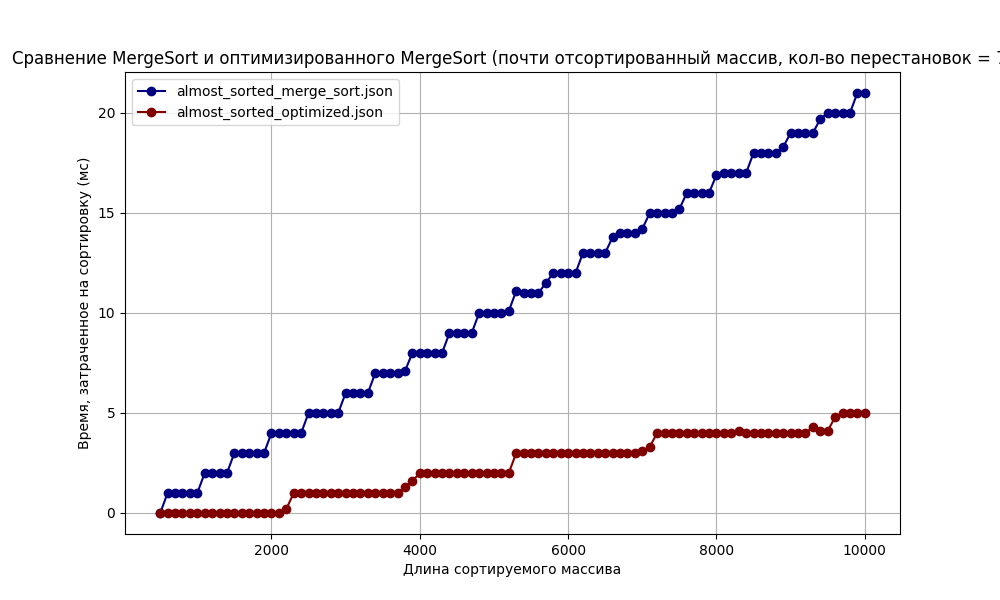
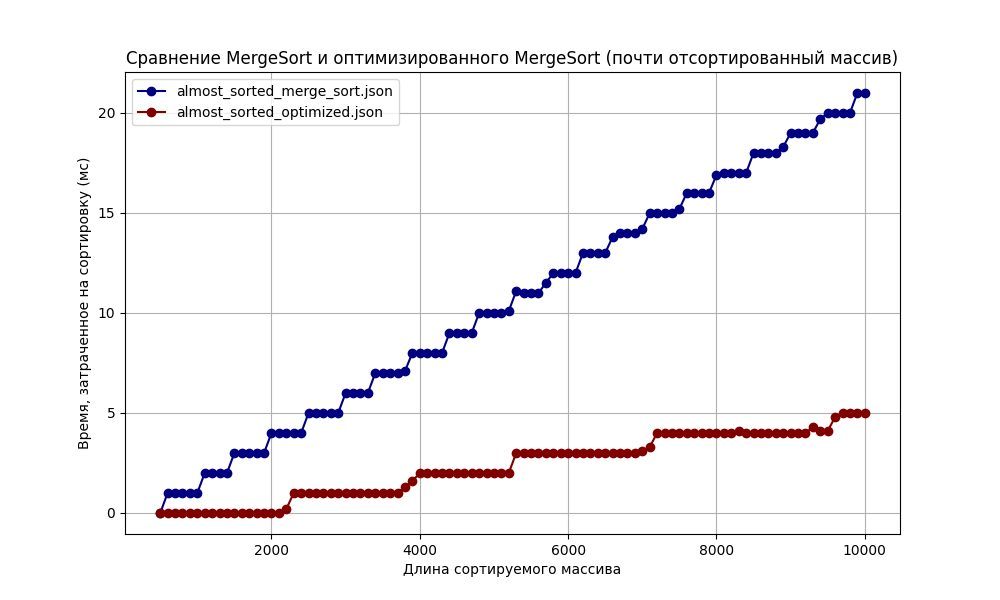
almost-sorted-update

Changed region(s): [[0.0, 0.09, 0.992, 0.12]]

diff --git a/vizualizer/vizualizer/almost_sorted.py b/vizualizer/vizualizer/almost_sorted.py
@@ -35,7 +35,7 @@ def main():
     for i, item in enumerate(contents):
         view(item, ax, colors[i])
     
-    ax.set_title('Сравнение MergeSort и оптимизированного MergeSort (почти отсортированный массив, кол-во перестановок = 7)')
+    ax.set_title('Сравнение MergeSort и оптимизированного MergeSort (почти отсортированный массив)')
     ax.set_xlabel('Длина сортируемого массива')
     ax.set_ylabel('Время, затраченное на сортировку (мс)')
     ax.grid(True)

diff --git a/README.md b/README.md
@@ -72,16 +72,22 @@ double SortTester::ProcessTime(Func func, Args &&... args) {
 ![](output/random-array-combined.png)
 
 Оптимизированный алгоритм справляется в 3 раза быстрее.
-И скачки на некоторых размерах массивов, проявляются меньше.
-Пороговое значение для MergeSort — 22 мс, пороговое значение для Merge+InsertionSort – 7 мс.
+Пороговое значение для MergeSort — 22 мс, пороговое значение для Merge+InsertionSort – 7 мс (если не учитывать одно значение 9.9 мс, обоснование будет после завершения анализа).
 
 2. Массивы, которые отсортированы в обратном порядке по невозрастанию (отсортированы в обратном порядке).
 
 ![](output/reversed-sorted-array-combined.png)
 
-Оптимизированный алгоритм справляется почти в 4 раза быстрее.
-Пороговое значение для MergeSort — 19 мс, пороговое значение для Merge+InsertionSort – 5 мс.
+Оптимизированный алгоритм справляется в 4 раза быстрее.
+Пороговое значение для MergeSort — 22-25 мс, пороговое значение для Merge+InsertionSort – 5 мс.
 
 Оба алгоритма справились лучше, чем в предыдущем пункте. Хотя для Merge+InsertionSort это выглядит неожиданно.
 Сортировка массива, отсортированного в обратном порядке — это худший случай для InsertionSort, с ассимптотикой O(n^2).
 При этом для уже отсортированного массива, InsertionSort не будет менять элементы местами и пройдет за линию O(n).
+
+Это можно обосновать предсказуемостью действий CPU и эффективность кэша (внутреннее устройство железа).
+Подробнее об этом можно почитать здесь [Branch predictor](https://en.wikipedia.org/wiki/Branch_predictor).
+
+3. Массивы, которые <<почти>> отсортированы. 302 перестановки в исходном массиве с 10000 значений.
+
+![](output/almost-sorted-array-combined.png)
